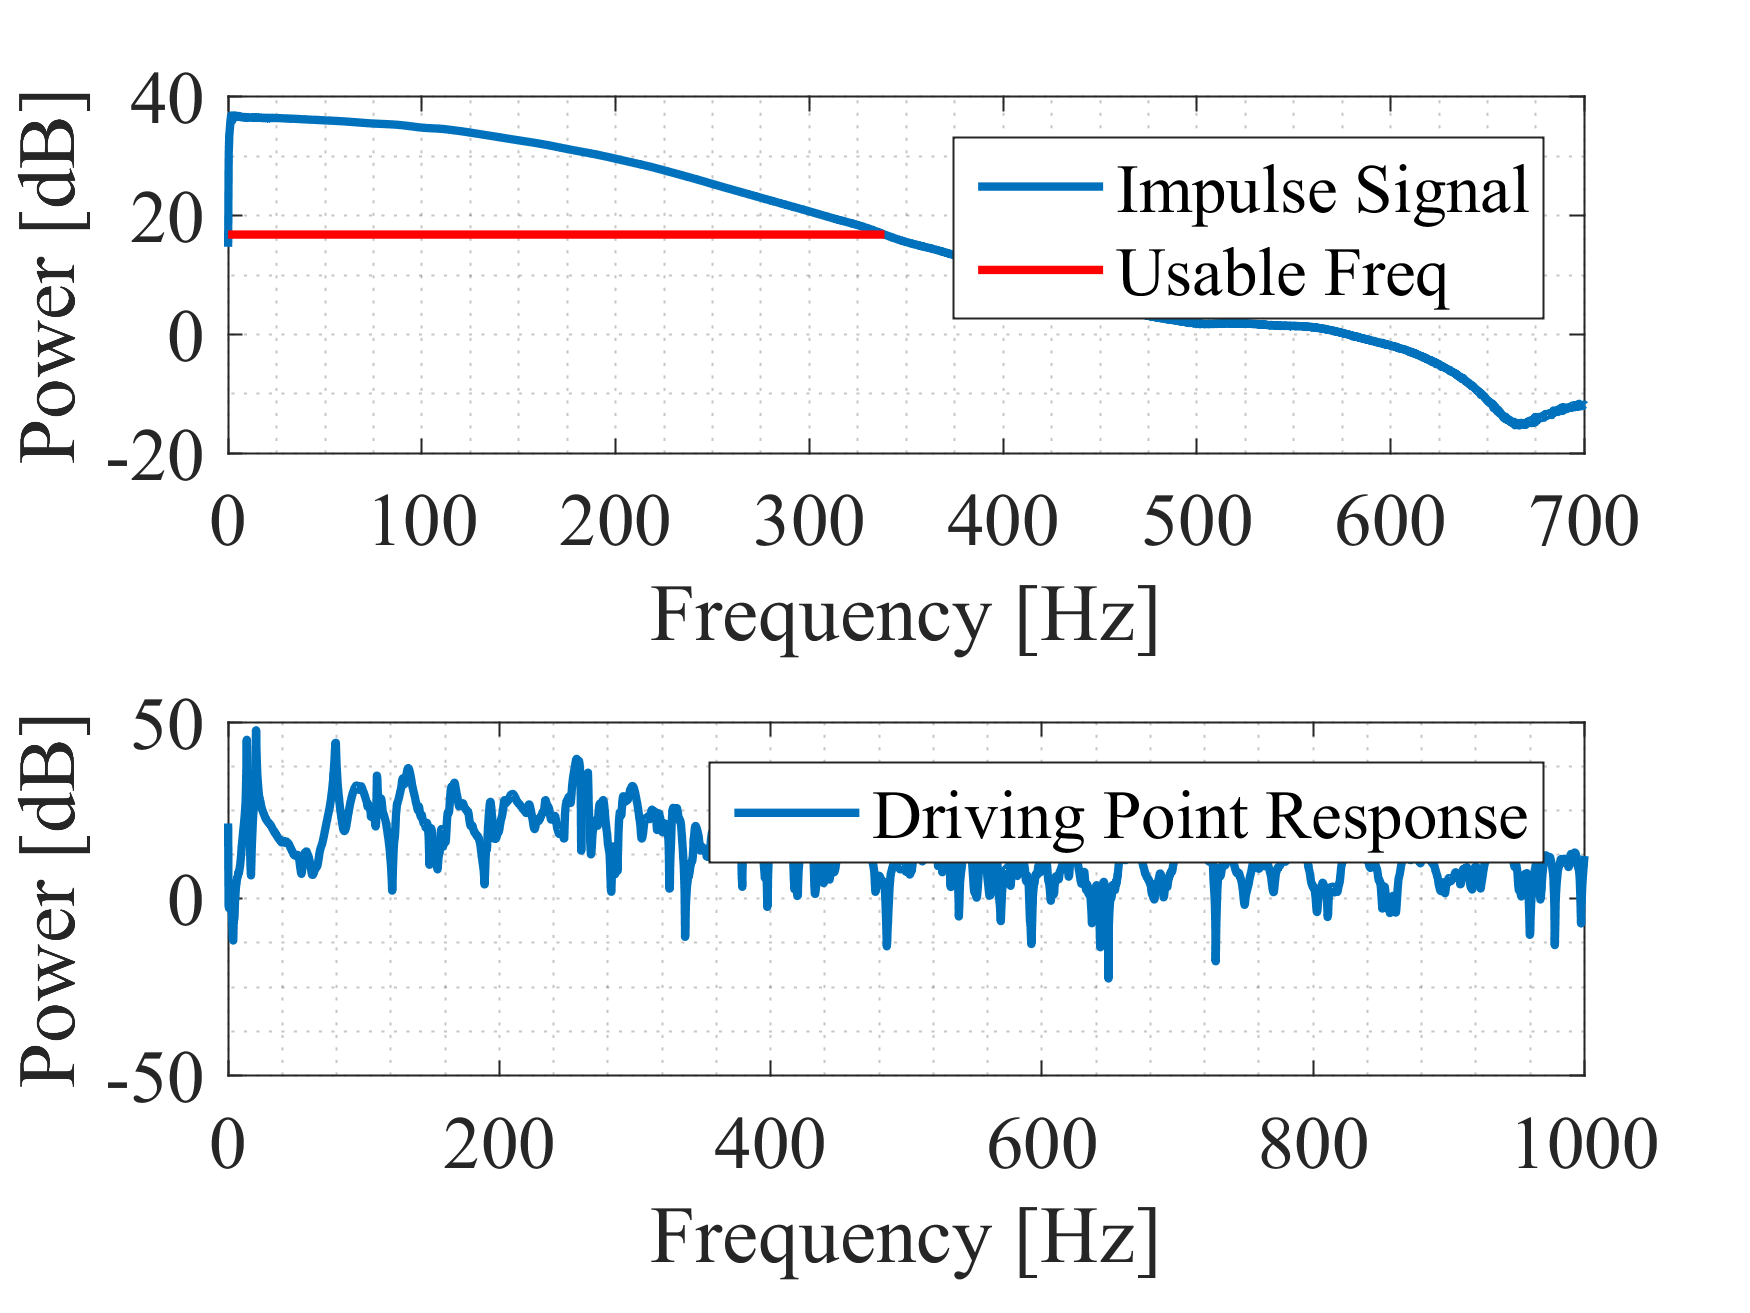
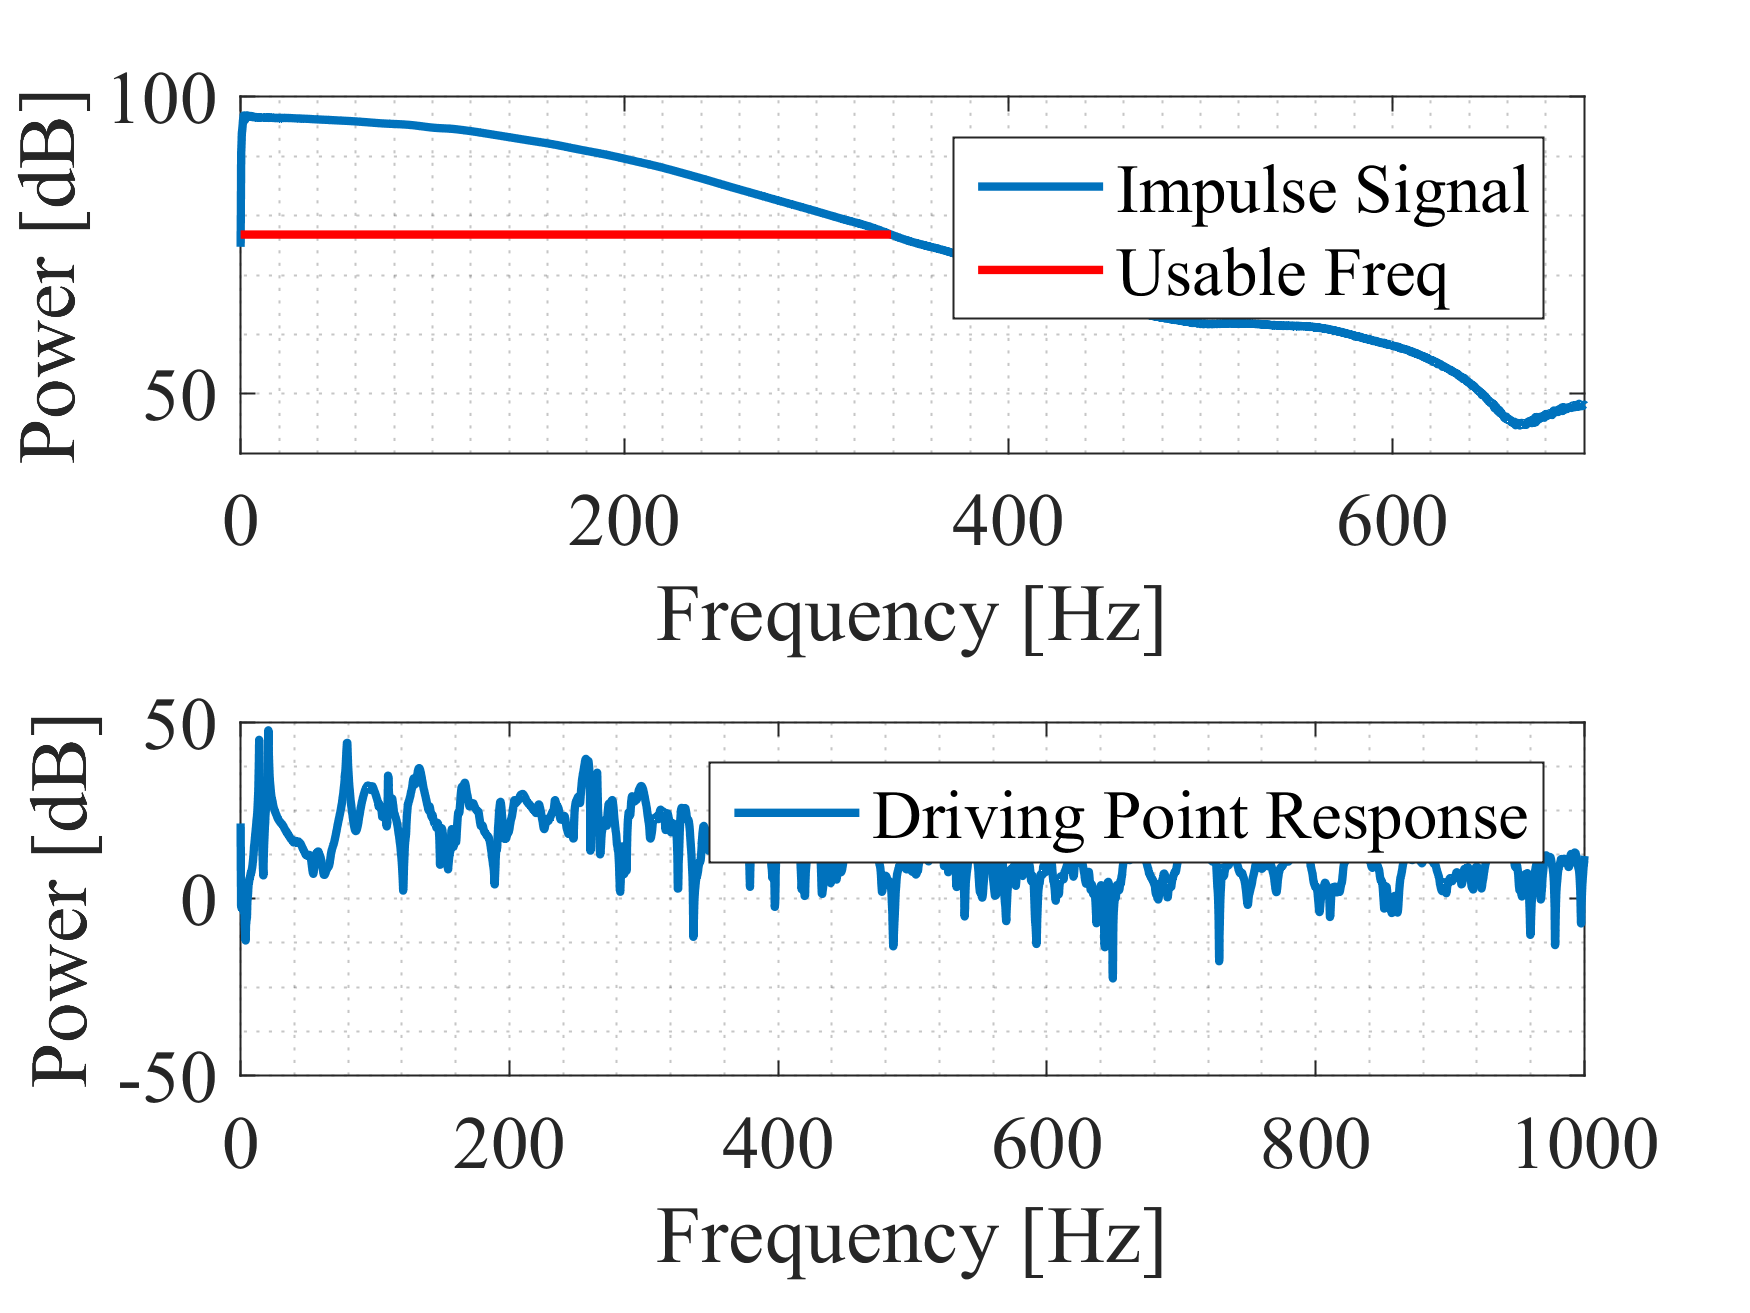
fixed force scaling issue

diff --git a/examples/impulse_example1.m b/examples/impulse_example1.m
@@ -21,6 +21,9 @@
 % load from file
 data = dlmread('impulse.txt');
 
+% scale force channel
+data(:,1) = data(:,1)*1000;
+
 % channel labels
 chan = {'Impulse Signal'; 'Driving Point Response'};
 

diff --git a/README.md b/README.md
@@ -16,11 +16,11 @@ The following example descriptions are paraphrased from the comments in each exa
 
 ### Usable Frequency Content of Impulse Signal
 
-`impulse_example1.m` loads an impact record (force and driving point). 
+`impulse_example1.m` loads an impact record (force and driving point) from a file. 
 
 ![impulse_time](data/impulse_time.png)
 
-The usable frequency content of the impulse signal is found and ploted with the driving point frequency content. 
+The usable frequency content of the impulse signal is found and plotted with the driving point frequency content. 
 
 ![impulse_freq](data/impulse_freq.png)
 
